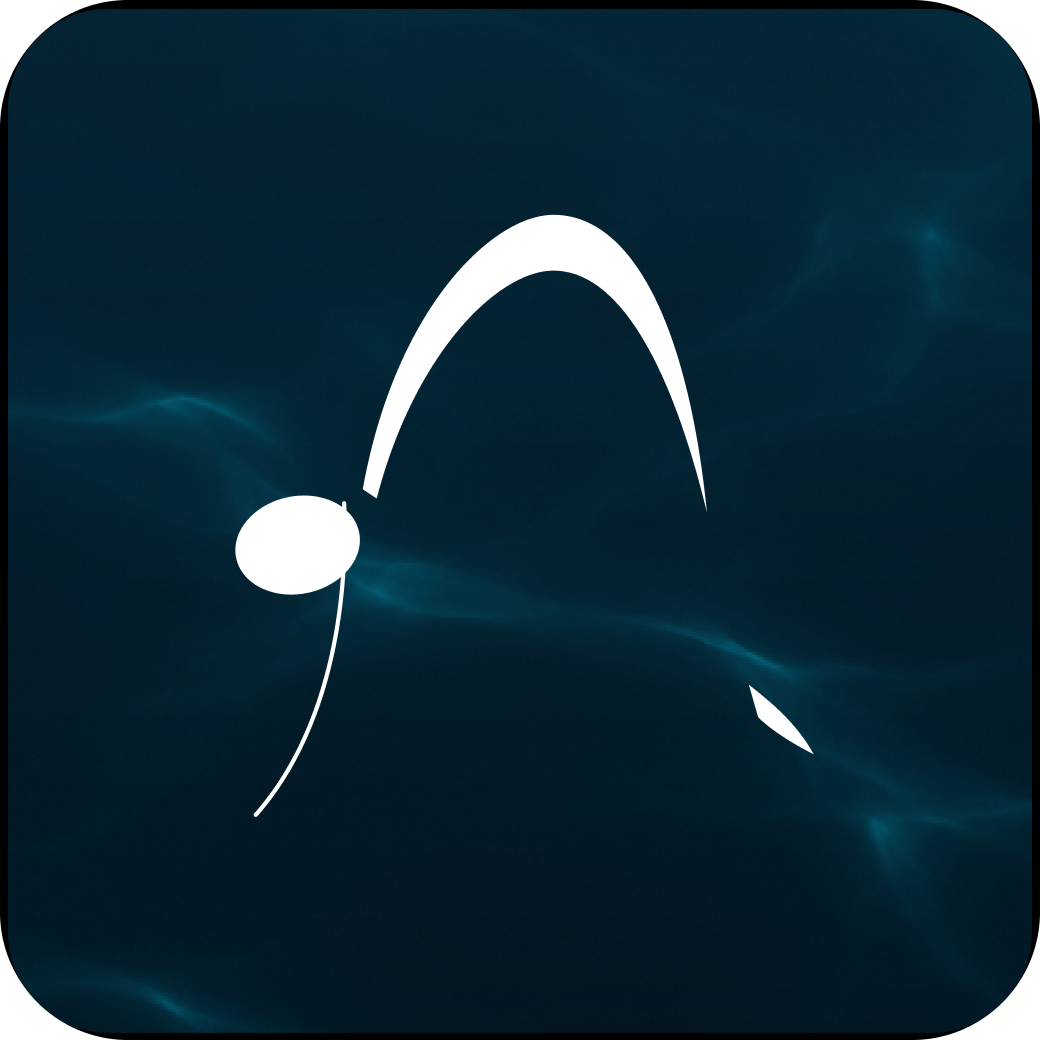
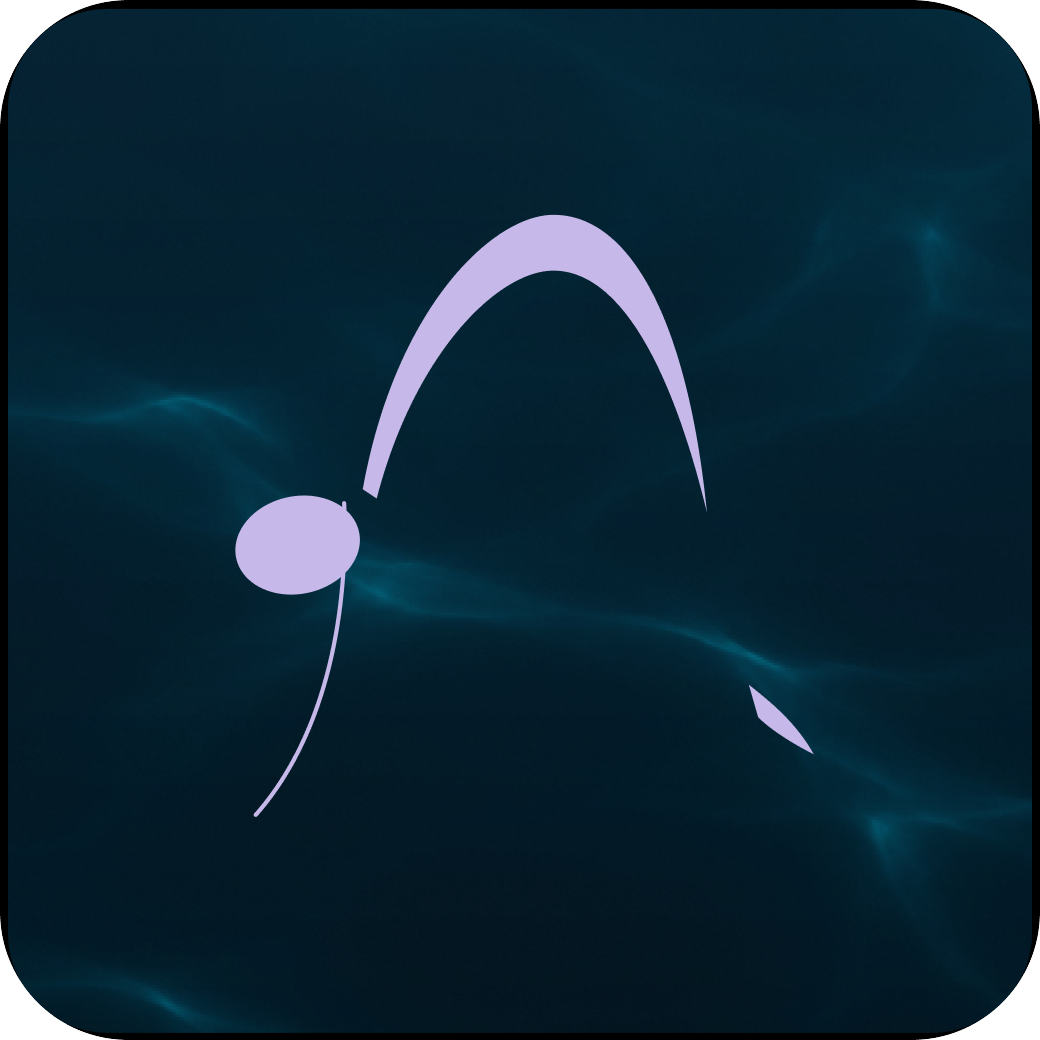
Show the Phononaut mark in lavender and capitalise Research
The Phononaut picture now uses the lavender arc (#C6B9E9) Viviana chose for the app icon, matching Figma's Phantom Fish final. The research heading is capitalised as in Figma.

diff --git a/index.html b/index.html
@@ -39,7 +39,7 @@
 
       <article class="product">
         <img class="product__picture" src="images/phononaut.png" width="520" height="520"
-             alt="The Phononaut mark, a white arc, on dark sea water">
+             alt="The Phononaut mark, a lavender arc, on dark sea water">
         <div class="product__words">
           <p class="product__number">01</p>
           <h3>Phononaut App</h3>
@@ -71,7 +71,7 @@
              alt="Rings of light on black">
         <div class="product__words">
           <p class="product__number">03</p>
-          <h3>research</h3>
+          <h3>Research</h3>
           <p class="product__text">Be the first to know when we are recruiting participants for our research or to read about our publications</p>
           <div class="buttons">
             <a class="button" href="mailto:hello@phantomfish.com?subject=Subscribe%20to%20Phantom%20Fish%20research%20news">Subscribe</a>
